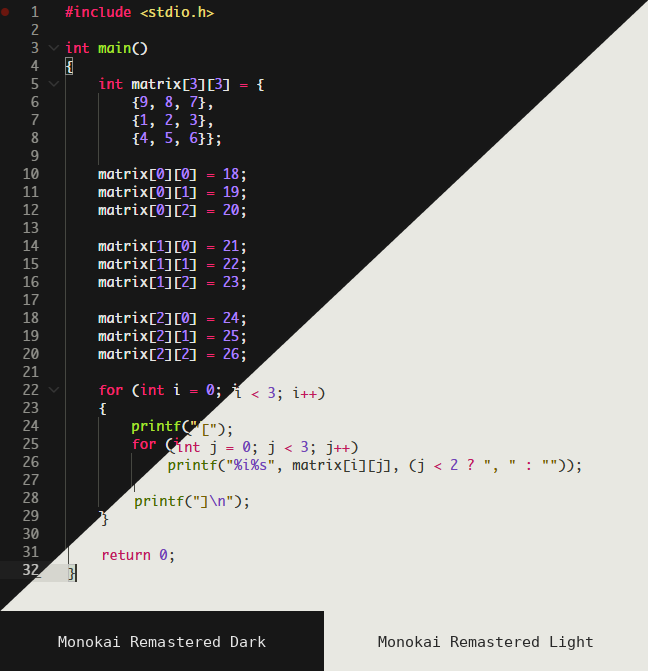
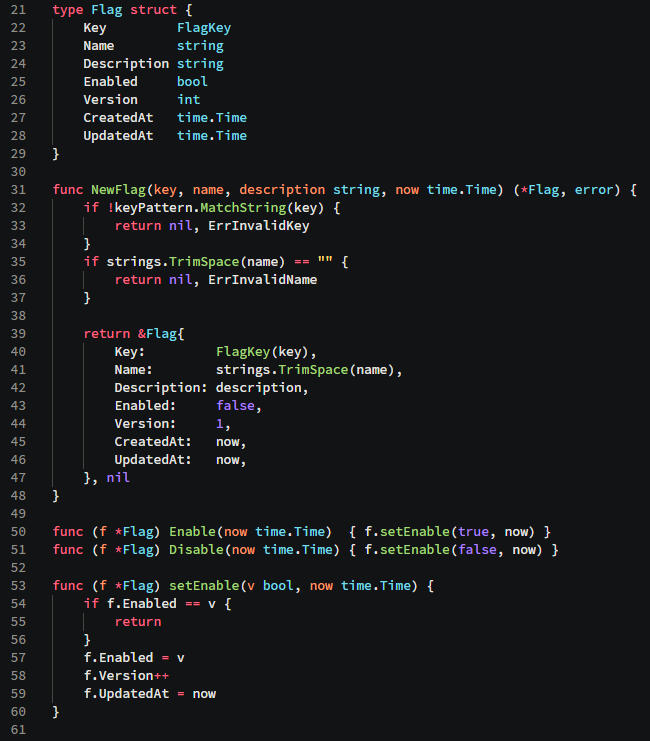
updade palette color

diff --git a/README.md b/README.md
@@ -20,21 +20,6 @@ Monokai Remastered Dark & Light brings together a dark, cinematic palette and a 
 
 ![Side-by-side color reference for Monokai Remastered Dark and Light](img.png)
 
-### Monokai Remastered Dark
-
-- Background: `#171717`
-- Foreground: `#E6E6E3`
-- Accent: `#F92672`
-- String: `#5DC863`
-- Keyword/constant: `#E6DB74`
-
-### Monokai Remastered Light
-
-- Background: `#E8E8E2`
-- Foreground: `#383830`
-- Accent: `#C2185B`
-- String: `#476C00`
-- Keyword/constant: `#716500`
 
 ## Features
 
